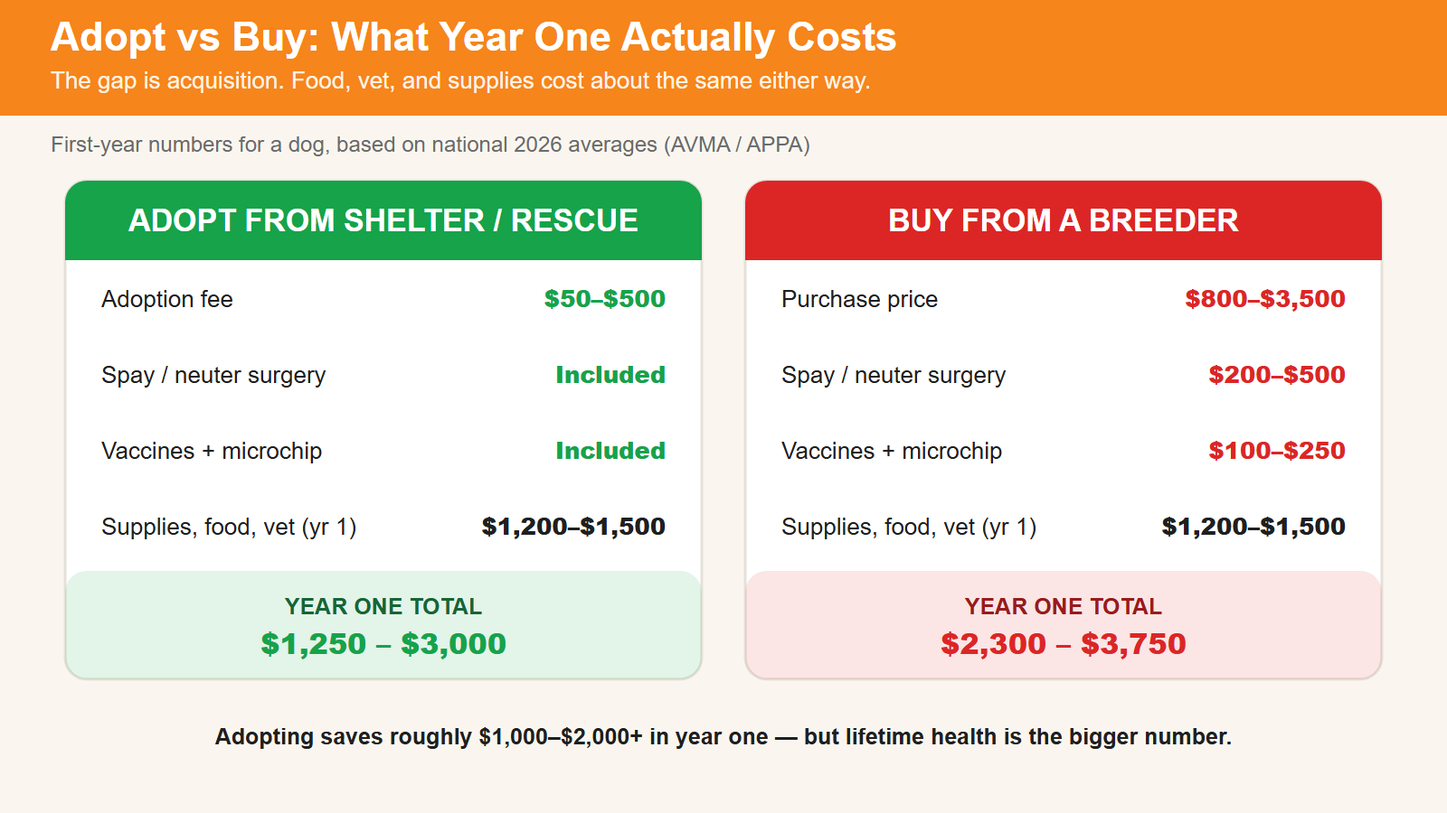
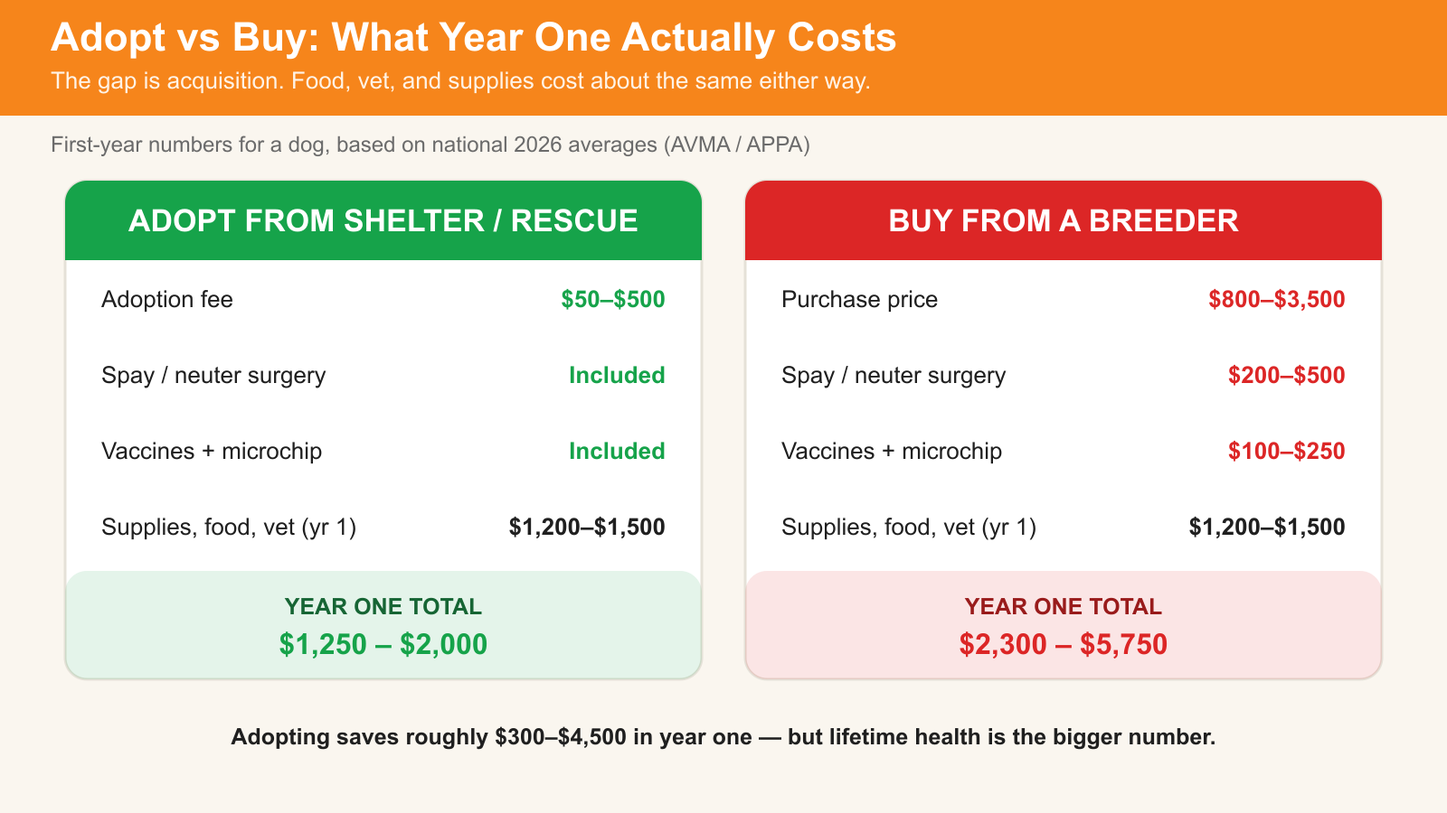
Fix two table arithmetic defects found by the site-wide audit
Both were reported as "needs human judgment" last round. Decided from
internal evidence only — no external data invented.

french-bulldog-guide.html — annual table
  * Good Year total $2,090-$3,510 -> $2,090-$4,310.
    The row items sum to $2,090-$4,310. Lower bound already matched, so the
    author did sum the rows and simply dropped the allergic-treatment upper
    spread. Independently confirmed: the old major-event upper bound $9,310
    equals $4,310 + $5,000 (BOAS ceiling) — two separate places agree on 4,310.
  * Major-event column $5,590-$9,310 -> $4,590-$16,310, and the header now
    reads "Year With One Major Event".
    The old value implied a $3,500-$5,800 delta, which matches one event, not
    BOAS + IVDD ($7,500-$17,000). The column never meant both — summing both
    rows is the two-event case. Now stated as the union of one event, which is
    the honest range for a reader who cannot know which one happens.
  * Lifetime prose: the "over $60,000" figure is explicitly the two-event case.

adopt-vs-buy-full-cost-breakdown.html — acquisition table
  * Breeder acquisition subtotal $1,100-$3,250 -> $1,100-$4,250.
    Rows sum to $1,100-$4,250 (800-3,500 + 200-500 + 25-50 + 75-200).
    The upper bound was a typo, and the first-year total inherited it.
  * Adoption first-year $1,250-$3,000 -> $1,250-$2,000 (rows sum to this).
  * Breeder first-year $2,300-$3,750 -> $2,300-$5,750 (subtotal + supplies).
[…]

diff --git a/adopt-vs-buy-full-cost-breakdown.html b/adopt-vs-buy-full-cost-breakdown.html
@@ -25,7 +25,7 @@
     <meta name="twitter:title" content="Adopt vs Buy a Pet: Full Cost Breakdown &amp; Decision Guide">
     <meta name="twitter:description" content="The complete financial and practical comparison. Adoption fees, breeder prices, health risks, and what matters most.">
     <meta name="twitter:image" content="https://www.meltpet.com/img/og/costs-og.png">
-    <script type="application/ld+json">{"@context":"https://schema.org","@type":"Article","headline":"Adopt vs Buy a Pet: Full Cost Breakdown & What's Right for You","description":"Complete cost and practical comparison: adoption fees, breeder prices, health risks, and temperament predictability.","datePublished":"2026-06-23","dateModified":"2026-06-23","author":{"@type":"Person","name":"Sarah Mitchell","url":"https://www.meltpet.com/sarah-mitchell"},"publisher":{"@type":"Organization","name":"MeltPet","url":"https://www.meltpet.com/"}}</script>
+    <script type="application/ld+json">{"@context":"https://schema.org","@type":"Article","headline":"Adopt vs Buy a Pet: Full Cost Breakdown & What's Right for You","description":"Complete cost and practical comparison: adoption fees, breeder prices, health risks, and temperament predictability.","datePublished":"2026-06-23","dateModified":"2026-09-21","author":{"@type":"Person","name":"Sarah Mitchell","url":"https://www.meltpet.com/sarah-mitchell"},"publisher":{"@type":"Organization","name":"MeltPet","url":"https://www.meltpet.com/"}}</script>
     <script type="application/ld+json">{"@context":"https://schema.org","@type":"Organization","name":"MeltPet","alternateName":"Melt Pet","url":"https://www.meltpet.com/","description":"Independent pet resource — breed finder, cost calculators, and evidence-backed guides."}</script>
     <script type="application/ld+json">{"@context":"https://schema.org","@type":"FAQPage","mainEntity":[{"@type":"Question","name":"Is adopting always cheaper than buying from a breeder?","acceptedAnswer":{"@type":"Answer","text":"Not always. Adoption fees typically range from $50 to $500, while a reputable breeder charges $800 to $3,500 for a dog. However, a shelter adoption that develops serious health or behavioral issues can cost more over a lifetime than a well-bred puppy from health-tested lines. The acquisition fee is only the starting point — lifetime care costs for any dog run $15,000 to $40,000. A cheap upfront price means nothing if you spend years managing preventable problems."}},{"@type":"Question","name":"Are shelter dogs less healthy than breeder dogs?","acceptedAnswer":{"@type":"Answer","text":"Mixed-breed shelter dogs benefit from hybrid vigor — broader genetic diversity that reduces the risk of breed-specific disorders. A 2013 UC Davis study of 27,000 dogs found purebreds at higher risk for 10 of 24 genetic conditions studied, while mixed breeds were not at higher risk for any. However, shelter dogs often arrive with unknown health histories, and early-life stress or poor nutrition can create long-term issues. A puppy from a reputable breeder comes with documented health screening on both parents — OFA hip and elbow scores, cardiac exams, eye clearances, and genetic testing. Neither path guarantees a healthy dog; both improve your odds in different ways."}},{"@type":"Question","name":"Is buying from a breeder unethical?","acceptedAnswer":{"@type":"Answer","text":"It depends on the breeder. Reputable breeders who health-test their breeding stock, screen buyers carefully, take back any dog they've bred at any point in its life, and contribute to breed preservation are ethical. They account for less than 5% of dogs in shelters. Puppy mills and backyard breeders — who produce dogs without health testing, proper socialization, or take-back policies — are the real problem. They supply the vast majority of dogs who end up in shelters and rescue systems. Never buy from a puppy mill or pet store. The choice between a responsible breeder and a shelter is a legitimate personal decision."}},{"@type":"Question","name":"What is a reputable breeder and how do I find one?","acceptedAnswer":{"@type":"Answer","text":"A reputable breeder performs breed-specific health testing on all breeding dogs (OFA hip/elbow scores, cardiac exams, eye clearances, genetic screening), provides documentation, lets you meet at least the mother dog, has a take-back policy for the life of the dog, screens buyers with a questionnaire, typically has a waitlist rather than always-available puppies, and is active in their breed's national club. To find one, start with the AKC's breeder referral for your breed, then cross-check with the breed's national parent club. A good breeder will ask you as many questions as you ask them. Red flags: multiple litters available at once, unwillingness to show you their facility, no health testing documentation, selling through pet stores, or no contract."}},{"@type":"Question","name":"Can you find purebred dogs in shelters?","acceptedAnswer":{"@type":"Answer","text":"Yes. Approximately 25% of shelter dogs are purebreds, according to the ASPCA. Breed-specific rescues exist for nearly every breed — Golden Retriever rescues, German Shepherd rescues, even rare-breed rescues. These organizations often foster dogs in homes and know their temperaments well before adoption. The trade-off: a purebred from a shelter comes without the breeder's health documentation or parental history. You get the breed's predictable traits but lose the health transparency a good breeder provides. If breed matters to you but you want to adopt, start with a breed-specific rescue rather than a general shelter."}}]}</script>
 </head>
@@ -54,9 +54,9 @@
         <nav class="breadcrumb" aria-label="Breadcrumb"><a href="/">🏠 Home</a><span class="sep"> ›</span><a href="/adopt-vs-buy">Decision Guides</a><span class="sep"> ›</span><span class="current">Adopt vs Buy Full Breakdown</span></nav>
         <div class="tool-hero">
             <h1>⚖ Adopt vs Buy a Pet:<br><span>Full Cost Breakdown</span></h1>
-            <p>2026-06-23 · MeltPet · 7 min read</p>
+            <p>2026-09-21 · MeltPet · 7 min read</p>
         </div>
-        <p class="last-updated" style="font-size:0.8rem;color:var(--text-muted);margin:2px 0 14px;">Last updated: 2026-06-23</p>
+        <p class="last-updated" style="font-size:0.8rem;color:var(--text-muted);margin:2px 0 14px;">Last updated: 2026-09-21</p>
         <article class="article-section">
             <h2>The Internet Has an Opinion. You Need Facts.</h2>
             <p>If you're asking "should I adopt or buy," you've already discovered that the internet takes sides before you finish typing. The adopt vs breeder debate is loud, opinionated, and rarely shows its math. "Adopt don't shop" is a good slogan. It's also an incomplete one. Adoption is the right path for a lot of people. But not everybody — and pretending otherwise doesn't help the dogs, the owners, or the shelters.</p>
@@ -72,12 +72,12 @@
                 <tr><td>Microchip</td><td>Usually included</td><td>$25–$50</td></tr>
                 <tr><td>Initial vaccinations</td><td>Usually included</td><td>$75–$200</td></tr>
                 <tr><td>Health screening</td><td>Basic screening included</td><td>Breeder-provided (OFA, genetic)</td></tr>
-                <tr style="border-top:2px solid var(--accent);"><td><strong>Acquisition subtotal</strong></td><td><strong>$50–$500</strong></td><td><strong>$1,100–$3,250</strong></td></tr>
+                <tr style="border-top:2px solid var(--accent);"><td><strong>Acquisition subtotal</strong></td><td><strong>$50–$500</strong></td><td><strong>$1,100–$4,250</strong></td></tr>
                 <tr><td>Supplies, food, routine vet (year 1)</td><td>$1,200–$1,500</td><td>$1,200–$1,500</td></tr>
-                <tr style="border-top:2px solid var(--accent);"><td><strong>First-year total</strong></td><td><strong>$1,250–$3,000</strong></td><td><strong>$2,300–$3,750</strong></td></tr>
+                <tr style="border-top:2px solid var(--accent);"><td><strong>First-year total</strong></td><td><strong>$1,250–$2,000</strong></td><td><strong>$2,300–$5,750</strong></td></tr>
                 </tbody>
             </table></div>
-            <p>Adoption saves you $1,000–3,000 in year one. That's real money. But when you're weighing adopt vs breeder, the acquisition fee is the smallest piece of the lifetime puzzle. A $500 adoption that develops $8,000 in health problems is more expensive than a $2,500 well-bred puppy from screened lines. The question isn't just "which costs less to acquire" — it's "which costs less across a lifespan, and which gives you the best chance at a healthy, stable companion."</p>
+            <p>Adoption saves you roughly $300&ndash;$4,500 in year one. That's real money. But when you're weighing adopt vs breeder, the acquisition fee is the smallest piece of the lifetime puzzle. A $500 adoption that develops $8,000 in health problems is more expensive than a $2,500 well-bred puppy from screened lines. The question isn't just "which costs less to acquire" — it's "which costs less across a lifespan, and which gives you the best chance at a healthy, stable companion."</p>
         </article>
         <img src="https://cdn.meltpet.com/article/adopt-vs-buy-lifetime.png" alt="Lifetime dog cost breakdown: acquisition is only 3-10% of the total — food $6,000-$12,000, routine vet $4,000-$8,000, emergency vet up to $8,000, insurance $3,000-$6,000, grooming and supplies $2,000-$5,000, totaling roughly $16,000-$36,000 over 10+ years" width="800" height="450" style="max-width:100%;height:auto;border-radius:8px;display:block;margin:20px 0;" loading="lazy">
         <article class="article-section">

diff --git a/adopt-vs-buy.html b/adopt-vs-buy.html
@@ -26,7 +26,7 @@
   <meta name="twitter:image" content="https://www.meltpet.com/img/og/tools-og.png">
   <script type="application/ld+json">{"@context":"https://schema.org","@type":"WebApplication","name":"Adopt vs Buy Calculator","description":"Compare total cost of adopting vs buying a pet including first-year and lifetime projections.","url":"https://www.meltpet.com/adopt-vs-buy","applicationCategory":"Finance","author":{"@type":"Person","name":"Sarah Mitchell","url":"https://www.meltpet.com/sarah-mitchell"}}</script>
   <script type="application/ld+json">{"@context":"https://schema.org","@type":"Organization","name":"MeltPet","alternateName":"Melt Pet","url":"https://www.meltpet.com/","description":"Independent pet resource — breed finder, cost calculators, and evidence-backed guides."}</script>
-  <script type="application/ld+json">{"@context":"https://schema.org","@type":"FAQPage","mainEntity":[{"@type":"Question","name":"How much cheaper is adopting a pet vs buying?","acceptedAnswer":{"@type":"Answer","text":"Adoption saves $1,000–$2,000 in the first year on acquisition costs alone. Adoption fees typically range from $50–500 and often include spay/neuter surgery ($200–500 value), initial vaccinations ($75–200), and microchipping ($25–50). A reputable breeder charges $800–$1,500 for a dog and doesn't typically include these services. However, lifetime costs matter more than acquisition cost: a $50 shelter adoption that develops serious health problems can cost more over 10+ years than a $2,500 puppy from comprehensively screened lines. Use the calculator to compare your specific scenario."}},{"@type":"Question","name":"Why does the breeder cost so much more than adoption?","acceptedAnswer":{"@type":"Answer","text":"Reputable breeders invest significantly in health testing (OFA hip/elbow certification, cardiac exams, eye clearances, genetic screening — easily $1,000+ per breeding dog), quality prenatal and postnatal care, early socialization programs, and breed preservation efforts. They typically produce 1–2 litters per year with careful planning. In contrast, adoption fees primarily cover the shelter's operational costs: housing, feeding, basic medical care, and the subsidized spay/neuter surgery. The breeder's health documentation provides long-term predictability that a shelter's unknown history cannot match, which is what the higher upfront cost purchases."}},{"@type":"Question","name":"Should I adopt or buy my first pet?","acceptedAnswer":{"@type":"Answer","text":"For first-time owners, adopting an adult dog or cat from a shelter or rescue is often the best path. Adult pets have known personalities — the shelter staff can tell you whether a dog is good with kids, other pets, strangers, and cats. You meet the animal and see what you're getting, with no waiting for puppyhood to reveal itself. This dramatically reduces the risk of behavioral surprises. If you're committed to raising a puppy and have the time for training, socialization, and the intense first two years, a puppy from a reputable breeder with documented health testing is a valid alternative. The one path to avoid: buying a cheap puppy online or from a pet store. Those are almost certainly from puppy mills and will cost you far more in the long run than either option."}}]}</script>
+  <script type="application/ld+json">{"@context":"https://schema.org","@type":"FAQPage","mainEntity":[{"@type":"Question","name":"How much cheaper is adopting a pet vs buying?","acceptedAnswer":{"@type":"Answer","text":"Adoption saves $600–$4,200 on acquisition costs alone. Adoption fees typically range from $50–500 and often include spay/neuter surgery ($200–500 value), initial vaccinations ($75–200), and microchipping ($25–50). A reputable breeder charges $800–$3,500 for a dog and doesn't typically include these services. However, lifetime costs matter more than acquisition cost: a $50 shelter adoption that develops serious health problems can cost more over 10+ years than a $2,500 puppy from comprehensively screened lines. Use the calculator to compare your specific scenario."}},{"@type":"Question","name":"Why does the breeder cost so much more than adoption?","acceptedAnswer":{"@type":"Answer","text":"Reputable breeders invest significantly in health testing (OFA hip/elbow certification, cardiac exams, eye clearances, genetic screening — easily $1,000+ per breeding dog), quality prenatal and postnatal care, early socialization programs, and breed preservation efforts. They typically produce 1–2 litters per year with careful planning. In contrast, adoption fees primarily cover the shelter's operational costs: housing, feeding, basic medical care, and the subsidized spay/neuter surgery. The breeder's health documentation provides long-term predictability that a shelter's unknown history cannot match, which is what the higher upfront cost purchases."}},{"@type":"Question","name":"Should I adopt or buy my first pet?","acceptedAnswer":{"@type":"Answer","text":"For first-time owners, adopting an adult dog or cat from a shelter or rescue is often the best path. Adult pets have known personalities — the shelter staff can tell you whether a dog is good with kids, other pets, strangers, and cats. You meet the animal and see what you're getting, with no waiting for puppyhood to reveal itself. This dramatically reduces the risk of behavioral surprises. If you're committed to raising a puppy and have the time for training, socialization, and the intense first two years, a puppy from a reputable breeder with documented health testing is a valid alternative. The one path to avoid: buying a cheap puppy online or from a pet store. Those are almost certainly from puppy mills and will cost you far more in the long run than either option."}}]}</script>
 </head>
 <body>
   <a href="#main-content" class="skip-link">Skip to content</a>
@@ -72,12 +72,12 @@
   <p>The acquisition fee is just the beginning. This calculator factors in first-year setup costs (crate, bed, supplies, training), annual routine costs (food, vet, flea prevention, insurance, grooming), and estimated emergency and travel expenses over the pet's expected lifespan. Read our <a href="/adopt-vs-buy-full-cost-breakdown">full adopt vs buy guide</a> for the complete analysis.</p>
   </div>
 
-    <img src="https://cdn.meltpet.com/article/adopt-vs-buy-cost-comparison.png" alt="Adopt vs buy first-year cost comparison: shelter adoption costs $50-$500 with spay/neuter and vaccines included; breeder puppy costs $800-$3,500 plus $200-$500 for spay/neuter — year-one totals $1,250-$3,000 vs $2,300-$3,750" width="800" height="450" style="max-width:100%;height:auto;border-radius:8px;display:block;margin:20px 0;" loading="lazy">
+    <img src="https://cdn.meltpet.com/article/adopt-vs-buy-cost-comparison.png" alt="Adopt vs buy first-year cost comparison: shelter adoption costs $50-$500 with spay/neuter and vaccines included; breeder puppy costs $800-$3,500 plus $200-$500 for spay/neuter — year-one totals $1,250-$2,000 vs $2,300-$5,750" width="800" height="450" style="max-width:100%;height:auto;border-radius:8px;display:block;margin:20px 0;" loading="lazy">
     <article class="article-section">
   <h2>⚖ Adoption vs Breeder: The Real Tradeoffs</h2>
 
   <h3>How much do you actually save by adopting?</h3>
-  <p>Adoption saves $1,000–$2,000 in the first year on acquisition costs. The adoption fee ($50–500) almost always includes spay/neuter surgery ($200–500 value), initial vaccinations ($75–200), and microchipping ($25–50). A reputable breeder charges $800–$1,500 for a dog and these procedures are additional. But — and this is the part most calculators skip — the acquisition fee represents roughly 3–10% of what you'll spend on a dog over its lifetime. A cheap upfront price doesn't guarantee a cheap lifetime. The calculator shows you both numbers: the first-year difference and the lifetime projection.</p>
+  <p>Adoption saves $600–$4,200 on acquisition costs alone. The adoption fee ($50–500) almost always includes spay/neuter surgery ($200–500 value), initial vaccinations ($75–200), and microchipping ($25–50). A reputable breeder charges $800–$3,500 for a dog, and those procedures are additional. But — and this is the part most calculators skip — the acquisition fee represents roughly 3–10% of what you'll spend on a dog over its lifetime. A cheap upfront price doesn't guarantee a cheap lifetime. The calculator shows you both numbers: the first-year difference and the lifetime projection.</p>
 
   <h3>Why does a breeder cost so much more?</h3>
   <p>The price difference isn't markup — it reflects real investment. A reputable breeder spends $1,000+ per breeding dog on OFA hip/elbow certification, cardiac exams, eye clearances (CERF), and genetic screening before breeding. They produce 1–2 carefully planned litters per year, provide prenatal care, manage early socialization, and maintain a lifetime take-back guarantee. A shelter's adoption fee covers operational costs — housing, feeding, basic medical care, and subsidized spay/neuter. The breeder's higher upfront cost purchases long-term health predictability that a shelter's unknown history cannot provide. Whether that's worth it depends on your priorities.</p>

diff --git a/french-bulldog-guide.html b/french-bulldog-guide.html
@@ -25,7 +25,7 @@
     <meta name="twitter:title" content="French Bulldog Guide: The $800 Puppy That Cost $15,000">
     <meta name="twitter:description" content="$2,000–$8,000 is the entry fee. The lifetime cost starts where the purchase price ends. Full breed reality check.">
     <meta name="twitter:image" content="https://www.meltpet.com/img/og/french-bulldog-og.png">
-    <script type="application/ld+json">{"@context":"https://schema.org","@type":"Article","headline":"French Bulldog Guide: The $800 Puppy That Cost $15,000","description":"French Bulldogs cost $2,000–$8,000 to buy. Breathing surgery, spine surgery, allergy management — the full financial picture.","datePublished":"2026-06-18","dateModified":"2026-06-29","author":{"@type":"Person","name":"Sarah Mitchell","url":"https://www.meltpet.com/sarah-mitchell"},"publisher":{"@type":"Organization","name":"MeltPet","url":"https://www.meltpet.com/"},"reviewedBy":{"@type":"Organization","name":"MeltPet Team","description":"All health claims cross-checked against peer-reviewed veterinary sources."}}</script>
+    <script type="application/ld+json">{"@context":"https://schema.org","@type":"Article","headline":"French Bulldog Guide: The $800 Puppy That Cost $15,000","description":"French Bulldogs cost $2,000–$8,000 to buy. Breathing surgery, spine surgery, allergy management — the full financial picture.","datePublished":"2026-06-18","dateModified":"2026-09-21","author":{"@type":"Person","name":"Sarah Mitchell","url":"https://www.meltpet.com/sarah-mitchell"},"publisher":{"@type":"Organization","name":"MeltPet","url":"https://www.meltpet.com/"},"reviewedBy":{"@type":"Organization","name":"MeltPet Team","description":"All health claims cross-checked against peer-reviewed veterinary sources."}}</script>
     <script type="application/ld+json">{"@context":"https://schema.org","@type":"Organization","name":"MeltPet","alternateName":"Melt Pet","url":"https://www.meltpet.com/","description":"Independent pet resource — breed finder, cost calculators, and evidence-backed guides."}</script>
     <script type="application/ld+json">{"@context":"https://schema.org","@type":"FAQPage","mainEntity":[{"@type":"Question","name":"Why are French Bulldogs so expensive to buy?","acceptedAnswer":{"@type":"Answer","text":"They can't mate or give birth without human intervention. Every litter requires artificial insemination and C-section delivery — both expensive procedures. Litter sizes are tiny, usually 2–4 puppies. Factor in health testing on breeding stock (hips, spine, cardiac, genetic screening), and the breeder's cost per puppy is high before any profit. A Frenchie priced under $2,000 almost certainly skipped health testing. The $2,000–$8,000 range from a reputable breeder reflects what it actually costs to produce a healthy litter."}},{"@type":"Question","name":"Do all French Bulldogs have breathing problems?","acceptedAnswer":{"@type":"Answer","text":"Most have some degree of breathing compromise. The flat face means shortened airways, narrowed nostrils, and an elongated soft palate — collectively called brachycephalic obstructive airway syndrome (BOAS). Severity varies. A Frenchie from a breeder who selects for open nares and moderate facial structure will breathe better than one from extreme breeding lines. But even well-bred Frenchies cannot handle heat, cannot exercise hard in warm weather, and should never fly in cargo. If you want a dog that hikes, runs, or spends summer afternoons outside, this is the wrong breed."}},{"@type":"Question","name":"What's the real health risk with this breed?","acceptedAnswer":{"@type":"Answer","text":"The major ones: BOAS (breathing difficulty, most individuals), IVDD (spinal disc herniation causing paralysis — surgery is $5,000–$12,000), skin fold dermatitis (yeast and bacterial infections in facial folds requiring daily cleaning), severe allergies ($50–$150/month for treatment), hip dysplasia (~20% per OFA data), and cherry eye. Not every Frenchie gets everything on this list. But budget as if two will happen — because statistically, they probably will."}},{"@type":"Question","name":"Are French Bulldogs good for first-time dog owners?","acceptedAnswer":{"@type":"Answer","text":"They can be — but only if you understand the financial exposure. Frenchies are easy dogs in terms of exercise (20–30 minutes daily), temperament (friendly, quiet, adaptable), and size (apartment-perfect). They're stubborn about potty training, which frustrates some first-timers, but they're not destructive or aggressive. The real barrier is health costs. A typical first-dog budget assumes food + routine vet + toys. A Frenchie budget needs room for possible $5,000 spinal surgery and ongoing allergy treatment. If you're stretching to afford the purchase price, this breed will break your finances."}}]}</script>
 </head>
@@ -55,7 +55,7 @@
         <div class="tool-hero"><h1>🇫🇷 French Bulldog <span>Reality Check</span></h1><p>$2,000–$8,000 is the entry fee. The vet bills start there. | 2026-06-18 · MeltPet · 6 min read</p></div>
 
 
-        <p class="last-updated" style="font-size:0.8rem;color:var(--text-muted);margin:2px 0 14px;">Last updated: 2026-06-29</p>
+        <p class="last-updated" style="font-size:0.8rem;color:var(--text-muted);margin:2px 0 14px;">Last updated: 2026-09-21</p>
         <article class="article-section">
             <h2>Rachel Bought a $4,200 Puppy. Then the Breathing Started.</h2>
             <p>My neighbor Rachel has a cream-colored Frenchie named Gustav. Ears like satellite dishes. Face like he's mildly offended by everything that has ever happened. I stopped to pet him at the mailbox last fall. Asked how he was doing.</p>
@@ -99,18 +99,18 @@
         <article class="article-section">
             <h2>Lifetime Cost: Healthy Year vs. Bad Year</h2>
             <div class="table-scroll"><table>
-                <thead><tr><th>What You're Paying For</th><th>Good Year</th><th>Year With a Major Event</th></tr></thead><tbody>
+                <thead><tr><th>What You're Paying For</th><th>Good Year</th><th>Year With One Major Event</th></tr></thead><tbody>
                 <tr><td>Food (limited ingredient, good quality)</td><td>$360–$600</td><td>$360–$600</td></tr>
                 <tr><td>Routine vet + flea/tick/heartworm</td><td>$350–$550</td><td>$350–$550</td></tr>
                 <tr><td>Allergy treatment</td><td>$600–$1,800</td><td>$600–$1,800</td></tr>
                 <tr><td>Grooming (every 6–8 weeks)</td><td>$300–$400</td><td>$300–$400</td></tr>
                 <tr><td>Insurance</td><td>$480–$960</td><td>$480–$960</td></tr>
-                <tr><td>BOAS surgery (once)</td><td>—</td><td>$2,500–$5,000</td></tr>
+                <tr><td>BOAS surgery (if it happens)</td><td>—</td><td>$2,500–$5,000</td></tr>
                 <tr><td>IVDD surgery (if it happens)</td><td>—</td><td>$5,000–$12,000</td></tr>
-                <tr style="border-top:2px solid var(--accent);"><td><strong>Year total</strong></td><td><strong>$2,090–$3,510</strong></td><td><strong>$5,590–$9,310</strong></td></tr>
+                <tr style="border-top:2px solid var(--accent);"><td><strong>Year total</strong></td><td><strong>$2,090–$4,310</strong></td><td><strong>$4,590–$16,310</strong></td></tr>
                 </tbody>
             </table></div>
-            <p>Ten to twelve years of this. A Frenchie who stays mostly healthy: $25,000–$40,000 lifetime. One who needs BOAS surgery and develops IVDD: easily over $60,000. The purchase price — $2,000 or $8,000, doesn't matter — is the smallest number on this page.</p>
+            <p>Ten to twelve years of this. A Frenchie who stays mostly healthy: $25,000–$40,000 lifetime. One who needs BOAS surgery and develops IVDD: easily over $60,000 &mdash; and that is the two-event case, not the single-event column above. The purchase price — $2,000 or $8,000, doesn't matter — is the smallest number on this page.</p>
             <p>I'm not trying to talk you out of a French Bulldog. I'm trying to make sure you don't end up like Rachel: standing at the mailbox with a dog she loves and a financial hole she didn't see coming. If these numbers don't scare you and you've found a breeder who screens for everything, go get your Frenchie. They're worth it — when you can afford the maintenance.</p>
         </article>
 

diff --git a/monthly-pet-cost.html b/monthly-pet-cost.html
@@ -122,7 +122,7 @@
   <tr><td><a href="/poodle-guide">Miniature Poodle</a></td><td>$150–$245</td><td>Grooming still outruns food at this size.</td></tr>
   <tr><td><a href="/poodle-guide">Toy Poodle</a></td><td>$125–$200</td><td>Higher dental risk; cleanings run $300–$1,200.</td></tr>
   <tr><td><a href="/dachshund-guide">Dachshund</a></td><td>$79–$195</td><td>Add $8–15/month for ramps — spine insurance, not a luxury.</td></tr>
-  <tr><td><a href="/french-bulldog-guide">French Bulldog</a></td><td>$174–$293</td><td>Allergy treatment amortises to $50–150/month. A major-event year runs $5,590–$9,310.</td></tr>
+  <tr><td><a href="/french-bulldog-guide">French Bulldog</a></td><td>$174–$293</td><td>Allergy treatment amortises to $50–150/month. A single major event (BOAS or IVDD) pushes that year to $4,590–$16,310.</td></tr>
   <tr><td><a href="/sphynx-cat-guide">Sphynx</a></td><td>$122–$227</td><td>Sweaters and heating are real line items.</td></tr>
   <tr><td><a href="/bengal-cat-guide">Bengal</a></td><td>$115–$215</td><td>No grooming line at all — enrichment is the cost.</td></tr>
   </tbody>
@@ -249,7 +249,7 @@
     flea:[20,35], insurance:{basic:[40,80],comprehensive:[60,110],none:[0,0]},
     grooming:{diy:[8,18],occasional:[25,33],regular:[40,60]}, toys:[8,18],
     extra:{x:[50,150],label:'Allergy treatment (amortized)'},
-    risk:'The breed page publishes two columns on purpose — a good year and a year with a major event ($5,590–$9,310). BOAS surgery is $2,500–$5,000; IVDD surgery $5,000–$12,000. Neither is in the monthly number above.'},
+    risk:'The breed page publishes two columns on purpose — a good year ($2,090–$4,310) and a year with one major event ($4,590–$16,310). BOAS surgery is $2,500–$5,000; IVDD surgery $5,000–$12,000. Neither is in the monthly number above.'},
 
   'corgi': {label:'Corgi', type:'dog', size:'dog-medium', partial:true, page:'/corgi-guide',
     food:{standard:[18,28],premium:[25,35],raw:[45,75]}, treats:[10,18], vet:{basic:[18,30],plus:[25,42],comprehensive:[40,65]},
